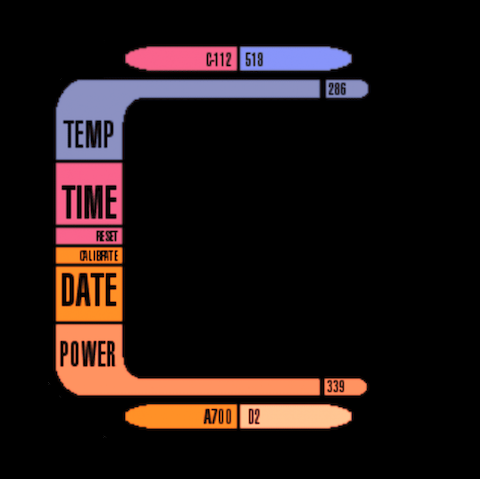
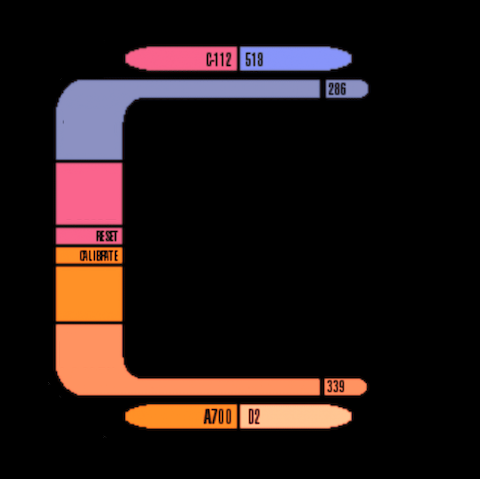
some ui fixes after test

diff --git a/src/lcars_round.py b/src/lcars_round.py
@@ -15,7 +15,7 @@ class LcarsRound(LcarsUi):
         super().__init__(w_width=480, w_height=480, w_title='ROUND', w_fullscreen=fullscreen, w_verbose=verbose)
 
     def _add_widgets(self) -> None:
-        self._set_fonts(headline=40, paragraph_top=25, time=100, paragraph_bottom=25, sidebar=25)
+        self._set_fonts(headline=40, paragraph_top=32, time=125, paragraph_bottom=25, sidebar=25)
         self._set_colors(headline='#FF7700', blue='#0080F4')
 
         dirname = os.path.dirname(__file__)
@@ -23,10 +23,6 @@ class LcarsRound(LcarsUi):
         self._set_background(image_path=filename)
 
         # top
-        label_txt_outside = tk.Label(self.frames, font=self.fonts['headline'], text='Outside',
-                                     fg=self.colors['headline'], bg=self.colors['black'])
-        label_txt_outside.place(anchor=tk.CENTER, relx=.8, rely=.4)
-
         self.label_temperature = tk.Label(self.frames, font=self.fonts['paragraph_top'], fg=self.colors['blue'],
                                           bg=self.colors['black'])
         self.label_temperature.place(anchor=tk.CENTER, relx=.4, rely=.3)
@@ -43,26 +39,26 @@ class LcarsRound(LcarsUi):
                                    bg=self.colors['black'])
         self.label_wind.place(anchor=tk.CENTER, relx=.6, rely=.4)
 
-        # bottom
         self.label_os = tk.Label(self.frames, font=self.fonts['headline'], fg=self.colors['headline'],
                                  bg=self.colors['black'])
-        self.label_os.place(anchor=tk.CENTER, relx=.8, rely=.5)
-
-        self.label_time = tk.Label(self.frames, font=self.fonts['time'], fg=self.colors['blue'],
-                                   bg=self.colors['black'])
-        self.label_time.place(anchor=tk.CENTER, relx=.5, rely=.65)
-
-        self.label_host = tk.Label(self.frames, font=self.fonts['paragraph_bottom'], fg=self.colors['blue'],
-                                   bg=self.colors['black'])
-        self.label_host.place(anchor=tk.CENTER, relx=.25, rely=.865)
+        self.label_os.place(anchor=tk.CENTER, relx=.8, rely=.39)
 
         self.label_date = tk.Label(self.frames, font=self.fonts['paragraph_bottom'], fg=self.colors['blue'],
                                    bg=self.colors['black'])
-        self.label_date.place(anchor=tk.CENTER, relx=.575, rely=.865)
+        self.label_date.place(anchor=tk.CENTER, relx=.8, rely=.625)
 
         self.label_ram = tk.Label(self.frames, font=self.fonts['paragraph_bottom'], fg=self.colors['blue'],
                                   bg=self.colors['black'])
-        self.label_ram.place(anchor=tk.CENTER, relx=.825, rely=.865)
+        self.label_ram.place(anchor=tk.CENTER, relx=.8, rely=.7)
+
+        # bottom
+        self.label_time = tk.Label(self.frames, font=self.fonts['time'], fg=self.colors['blue'],
+                                   bg=self.colors['black'])
+        self.label_time.place(anchor=tk.CENTER, relx=.5, rely=.625)
+
+        self.label_host = tk.Label(self.frames, font=self.fonts['paragraph_bottom'], fg=self.colors['blue'],
+                                   bg=self.colors['black'])
+        self.label_host.place(anchor=tk.CENTER, relx=.3, rely=.865)
 
         # reload
         self.window.after(10, self._update_widget)
